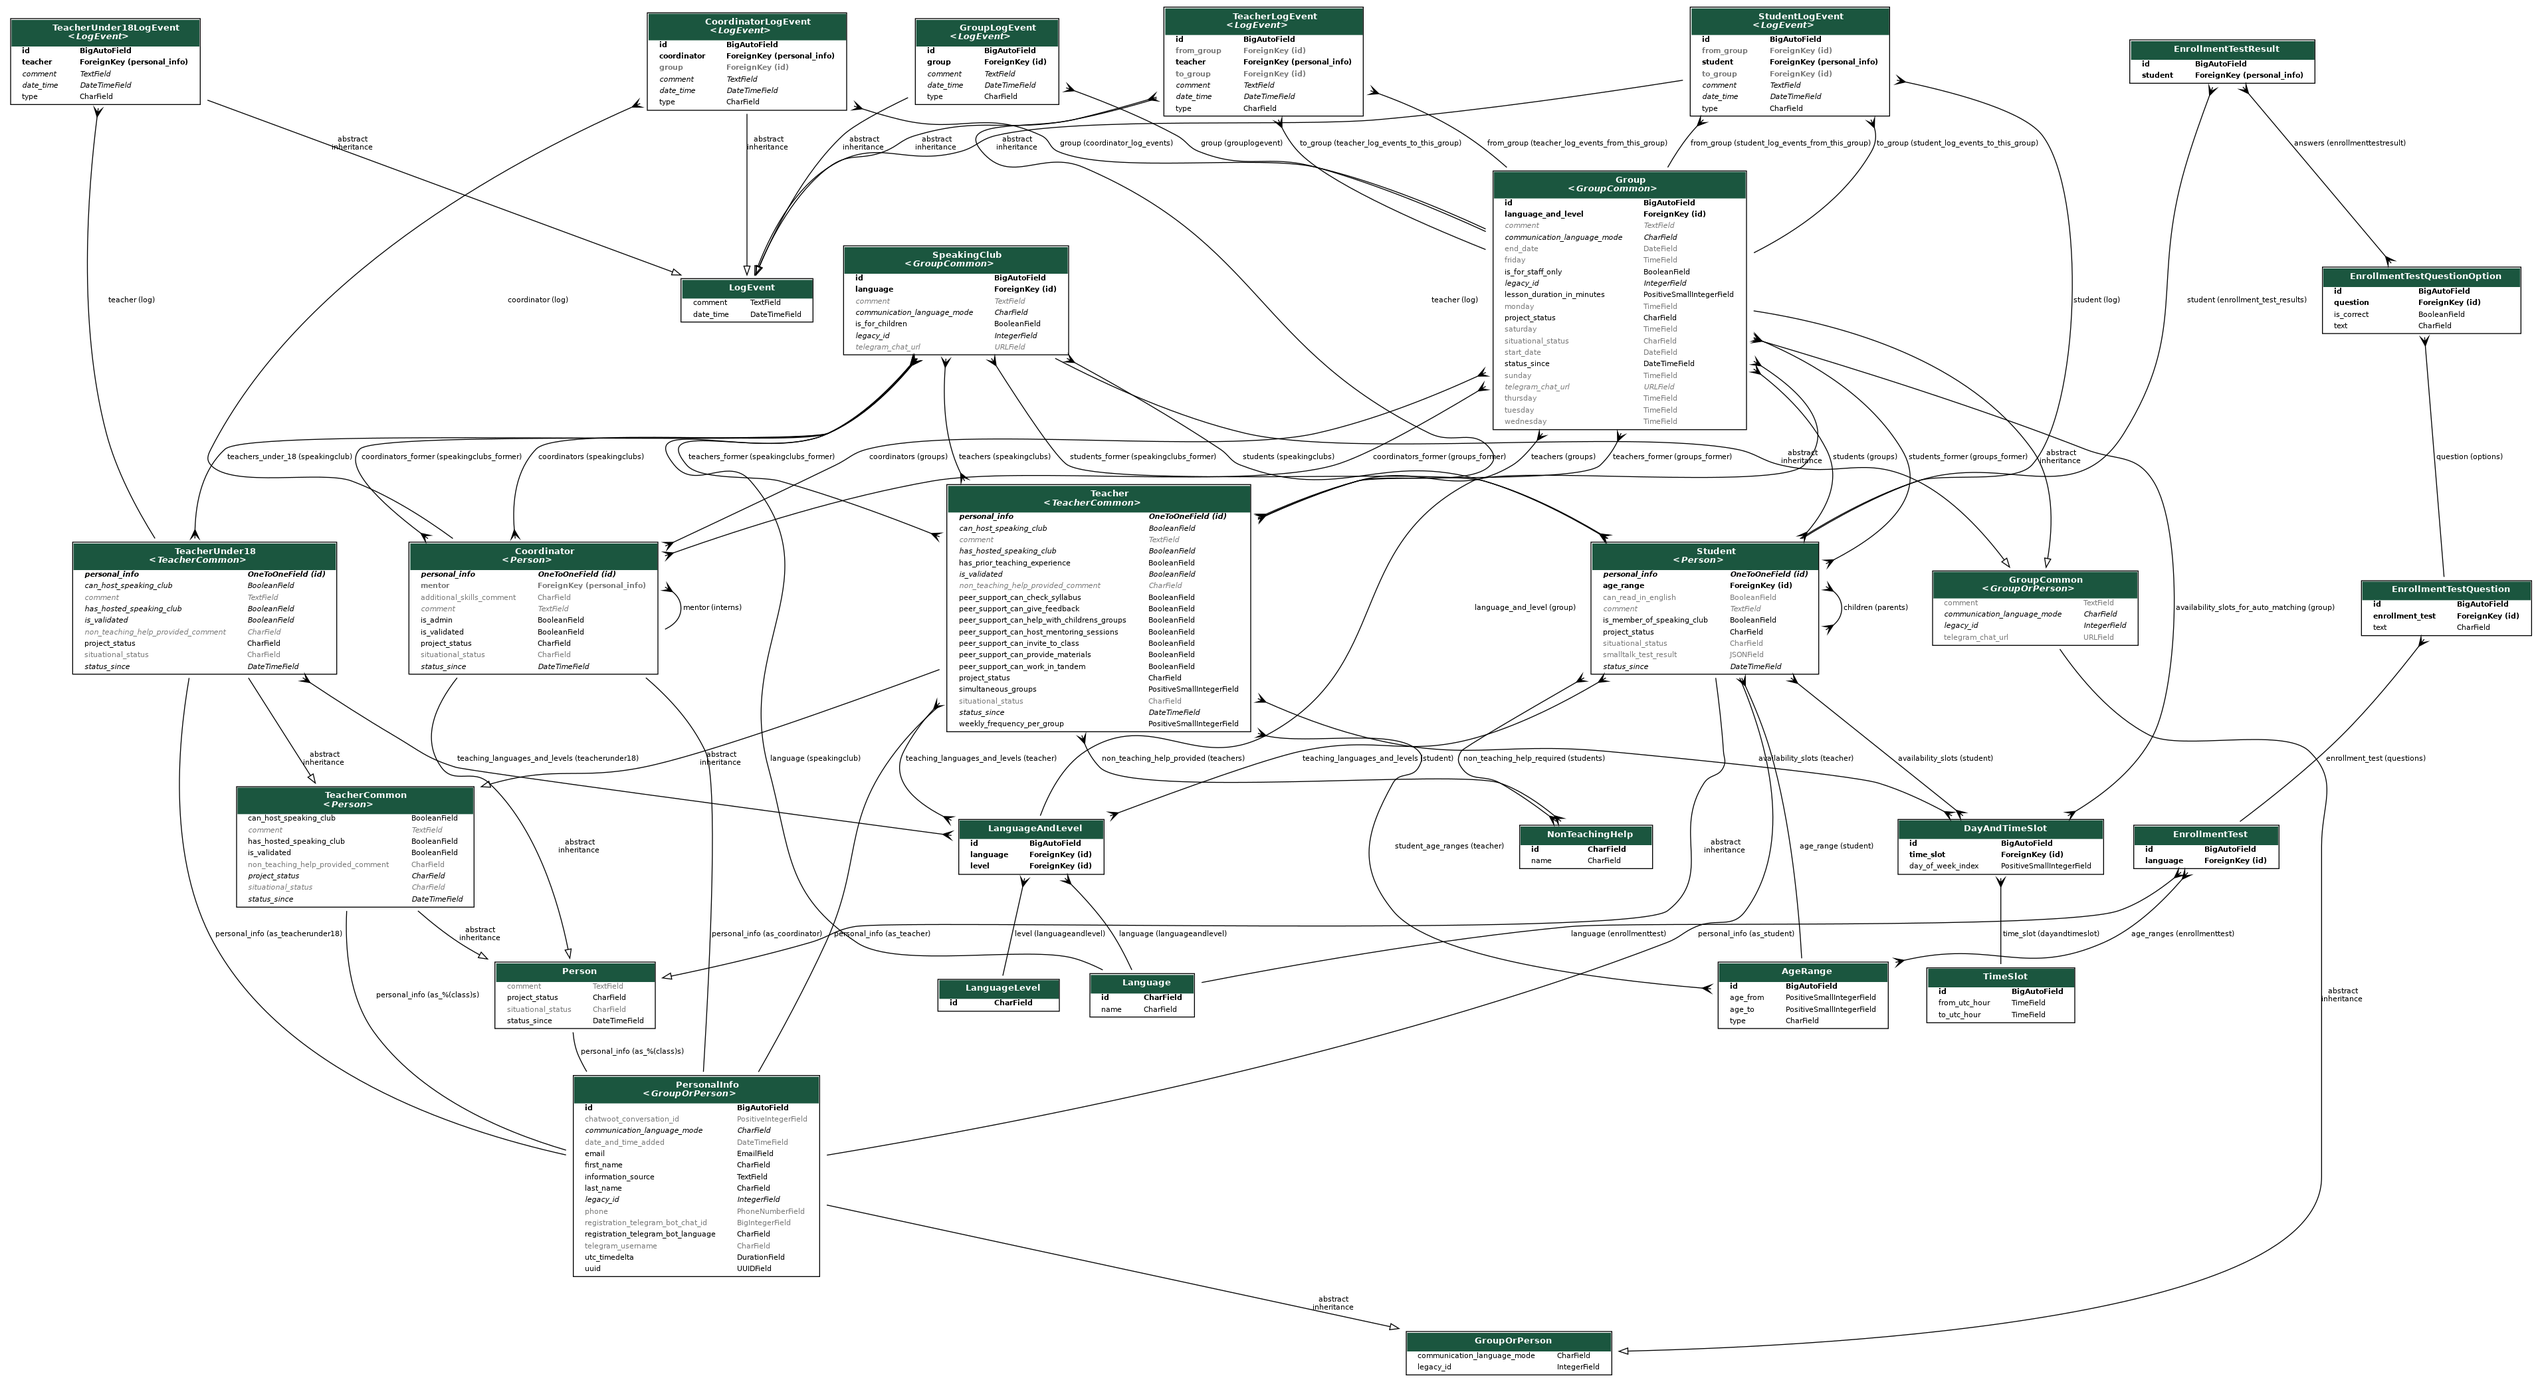
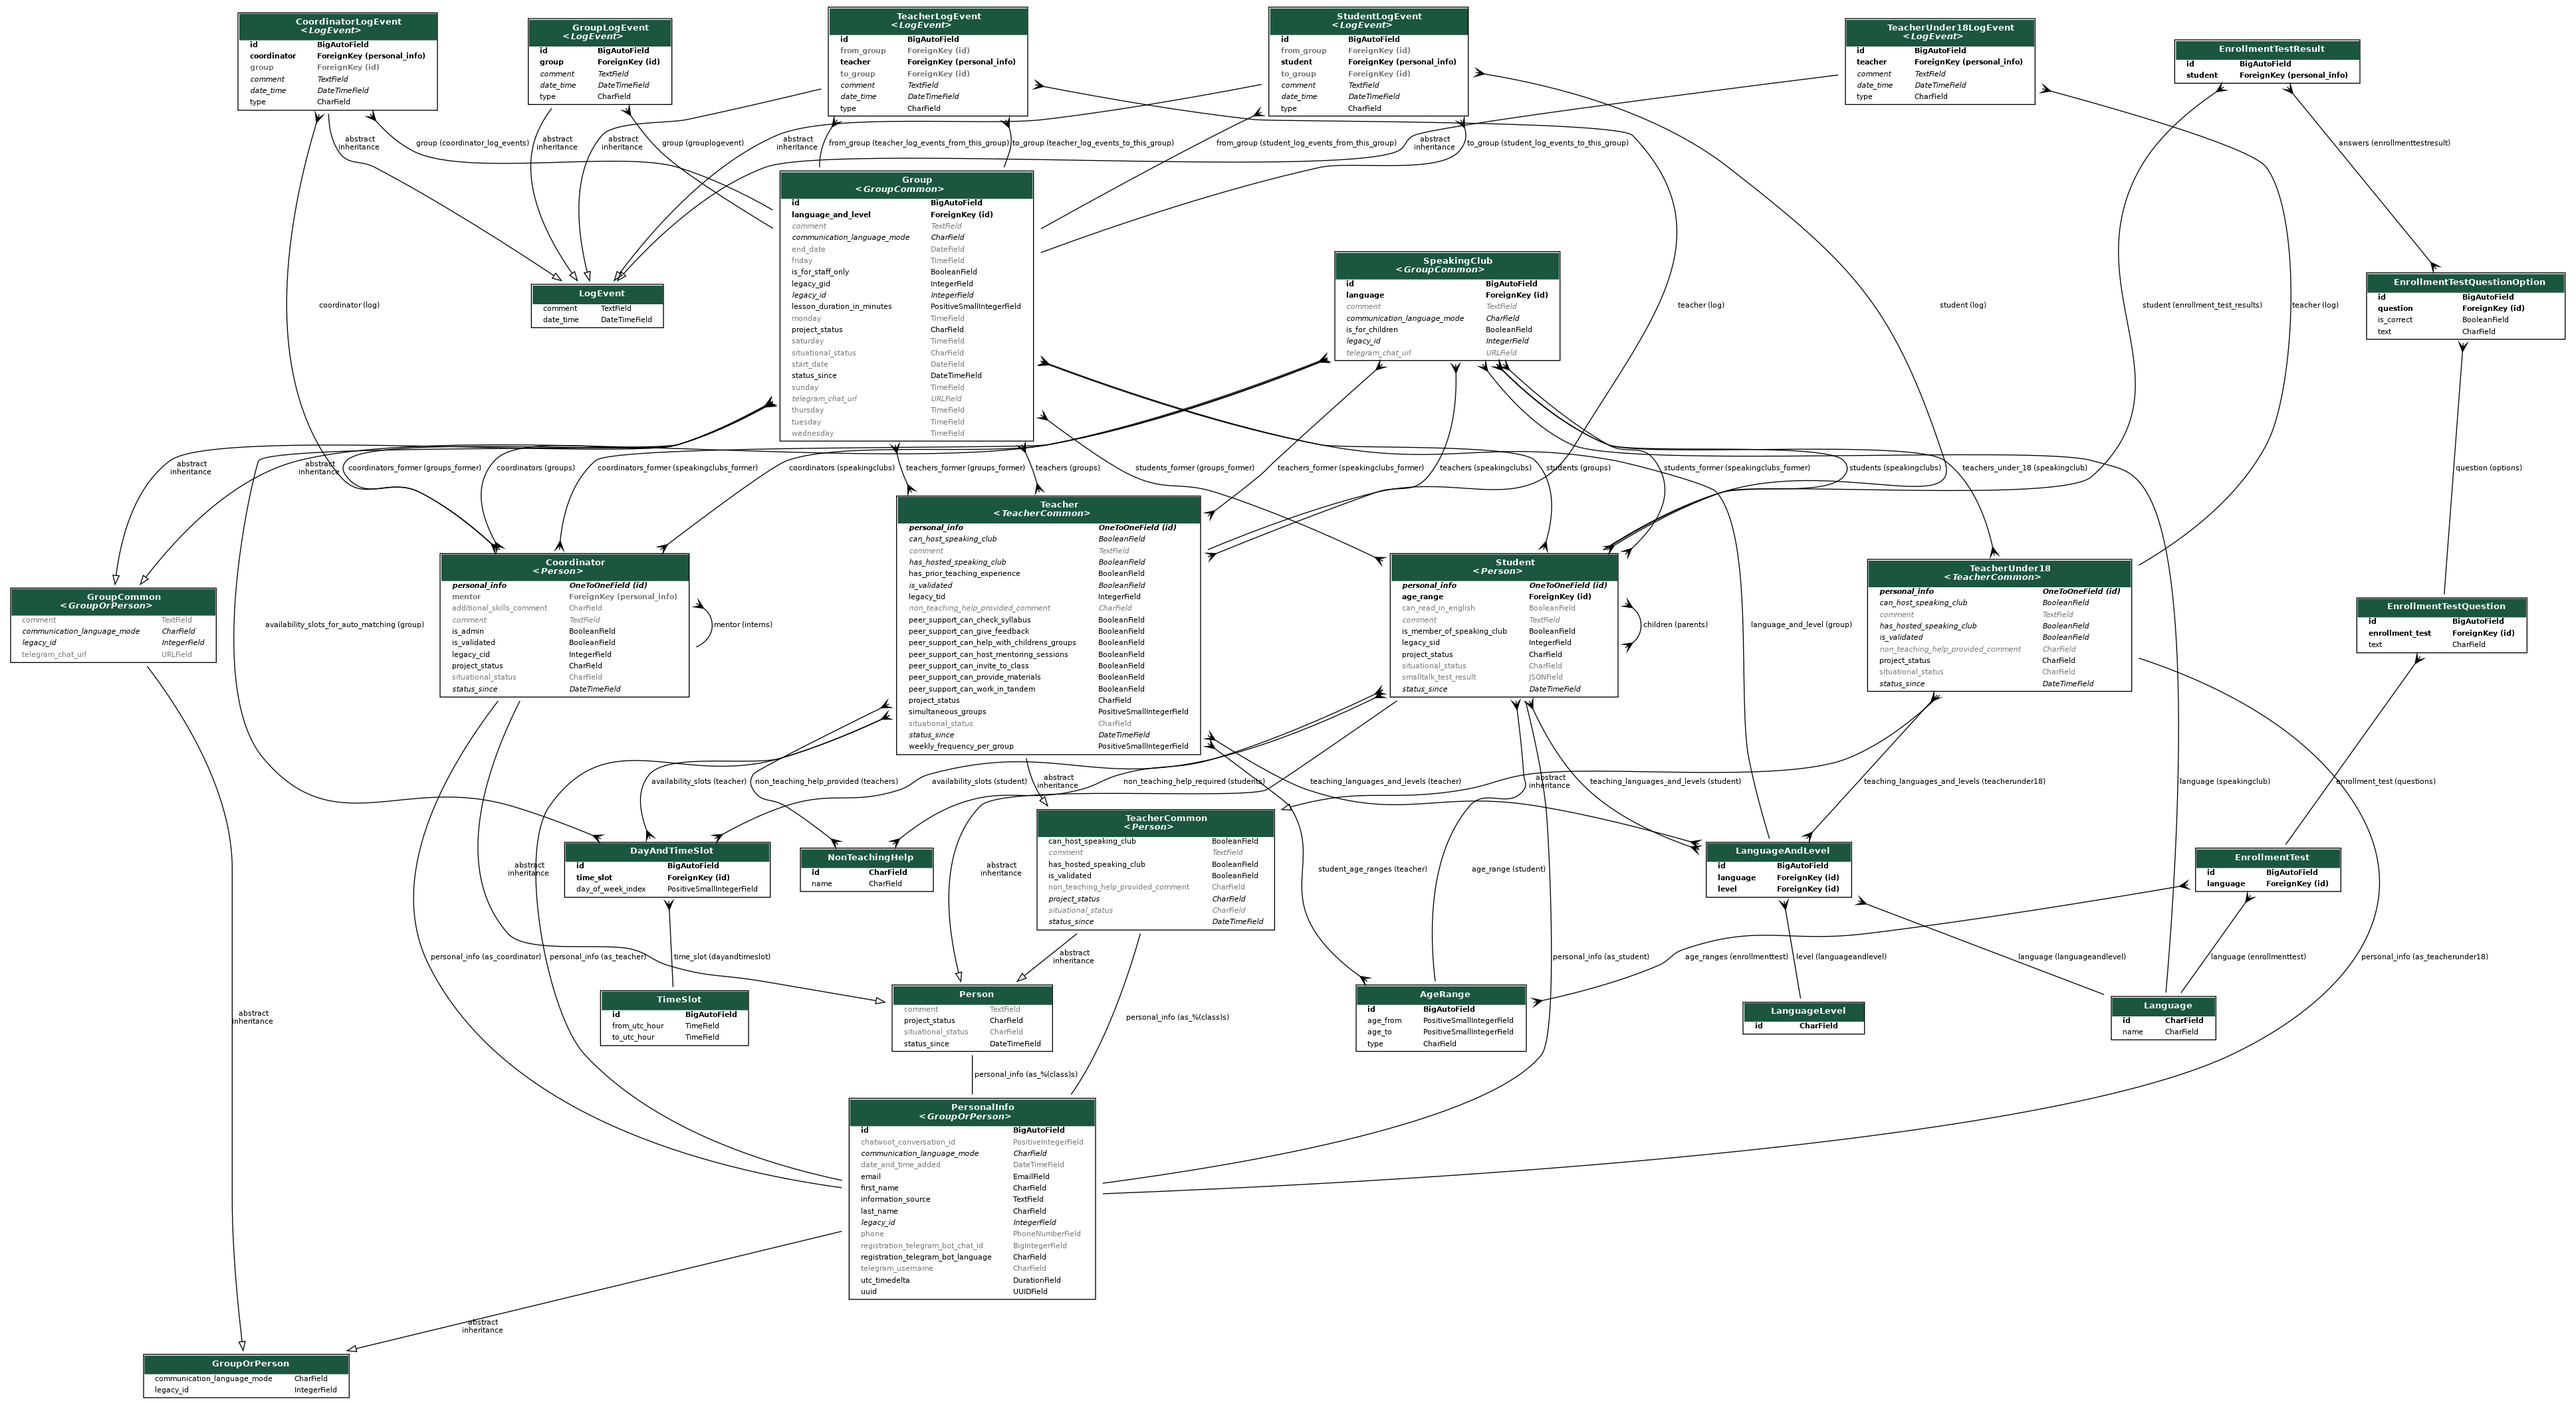
chore: address PR comments

diff --git a/api/migrations/0001_initial.py b/api/migrations/0001_initial.py
@@ -1,4 +1,4 @@
-# Generated by Django 5.0.2 on 2024-03-16 14:38
+# Generated by Django 5.0.2 on 2024-03-18 21:25
 
 import datetime
 import django.db.models.deletion
@@ -280,6 +280,7 @@ class Migration(migrations.Migration):
                 ),
                 ("comment", models.TextField(blank=True)),
                 ("telegram_chat_url", models.URLField(blank=True, null=True)),
+                ("legacy_gid", models.IntegerField(null=True)),
                 ("is_for_staff_only", models.BooleanField(default=False)),
                 ("lesson_duration_in_minutes", models.PositiveSmallIntegerField()),
                 (
@@ -630,6 +631,7 @@ class Migration(migrations.Migration):
                         help_text="date and time of last change of project-level or situational status"
                     ),
                 ),
+                ("legacy_cid", models.IntegerField(null=True)),
                 (
                     "additional_skills_comment",
                     models.CharField(
@@ -715,6 +717,7 @@ class Migration(migrations.Migration):
                         help_text="date and time of last change of project-level or situational status"
                     ),
                 ),
+                ("legacy_sid", models.IntegerField(null=True)),
                 ("can_read_in_english", models.BooleanField(blank=True, null=True)),
                 (
                     "is_member_of_speaking_club",
@@ -806,6 +809,7 @@ class Migration(migrations.Migration):
                         verbose_name="comment on additional non-teaching skills",
                     ),
                 ),
+                ("legacy_tid", models.IntegerField(null=True)),
                 (
                     "has_prior_teaching_experience",
                     models.BooleanField(
@@ -1412,6 +1416,10 @@ class Migration(migrations.Migration):
             model_name="coordinator",
             index=models.Index(fields=["situational_status"], name="coordinator_si_status_idx"),
         ),
+        migrations.AddConstraint(
+            model_name="coordinator",
+            constraint=models.UniqueConstraint(fields=("legacy_cid",), name="legacy_cid"),
+        ),
         migrations.AddIndex(
             model_name="studentlogevent",
             index=models.Index(fields=["student_id"], name="student_id_idx"),
@@ -1427,6 +1435,10 @@ class Migration(migrations.Migration):
         migrations.AddIndex(
             model_name="student",
             index=models.Index(fields=["situational_status"], name="student_si_status_idx"),
+        ),
+        migrations.AddConstraint(
+            model_name="student",
+            constraint=models.UniqueConstraint(fields=("legacy_sid",), name="legacy_sid"),
         ),
         migrations.AddIndex(
             model_name="teacherlogevent",
@@ -1444,6 +1456,10 @@ class Migration(migrations.Migration):
             model_name="teacher",
             index=models.Index(fields=["situational_status"], name="teacher_si_status_idx"),
         ),
+        migrations.AddConstraint(
+            model_name="teacher",
+            constraint=models.UniqueConstraint(fields=("legacy_tid",), name="legacy_tid"),
+        ),
         migrations.AddIndex(
             model_name="group",
             index=models.Index(fields=["language_and_level"], name="group_language_level_idx"),
@@ -1459,6 +1475,10 @@ class Migration(migrations.Migration):
         migrations.AddIndex(
             model_name="group",
             index=models.Index(fields=["start_date"], name="group_start_date_idx"),
+        ),
+        migrations.AddConstraint(
+            model_name="group",
+            constraint=models.UniqueConstraint(fields=("legacy_gid",), name="legacy_gid"),
         ),
         migrations.AddConstraint(
             model_name="group",

diff --git a/django_webapps/scripts/db_population/populate_groups.py b/django_webapps/scripts/db_population/populate_groups.py
@@ -125,8 +125,14 @@ class GroupsPopulator(BasePopulatorFromCsv):
             fake_language_and_level = self._create_language_and_levels(levels=["A1"]).first()
             if fake_language_and_level is None:
                 return
+
+            if Group.objects.filter(legacy_gid=entity_data.gid).count():
+                logger.warning(
+                    f"Coordinator with {self.id_name} {entity_data.gid} was already migrated"
+                )
+                return
             group = Group.objects.create(
-                legacy_id=entity_data.gid,
+                legacy_gid=entity_data.gid,
                 project_status=entity_data.project_status,
                 status_since=entity_data.status_since,
                 lesson_duration_in_minutes=entity_data.duration,
@@ -145,15 +151,9 @@ class GroupsPopulator(BasePopulatorFromCsv):
             ]:
                 if day and time:
                     group = self._add_day(group, day, time)
-            group.students.set(
-                Student.objects.filter(personal_info__legacy_id__in=entity_data.sids)
-            )
-            group.teachers.set(
-                Teacher.objects.filter(personal_info__legacy_id__in=entity_data.tids)
-            )
-            group.coordinators.set(
-                Coordinator.objects.filter(personal_info__legacy_id__in=entity_data.cids)
-            )
+            group.students.set(Student.objects.filter(legacy_sid__in=entity_data.sids))
+            group.teachers.set(Teacher.objects.filter(legacy_tid__in=entity_data.tids))
+            group.coordinators.set(Coordinator.objects.filter(legacy_cid__in=entity_data.cids))
             self._add_language_and_level(
                 group, entity_data.language_level, entity_data.teacher_language
             )
@@ -224,6 +224,7 @@ if __name__ == "__main__":
     parser = get_parser()
     args = parser.parse_args()
     groups = load_csv_data(args.input_csv)
+    Group.objects.all().delete()
     populator = GroupsPopulator(
         groups[1:],
         COLUMN_TO_ID,

diff --git a/api/models/coordinator.py b/api/models/coordinator.py
@@ -37,6 +37,7 @@ class CoordinatorQuerySet(models.QuerySet["Coordinator"]):
 class Coordinator(Person):
     """Model for a coordinator."""
 
+    legacy_cid = models.IntegerField(null=True, help_text="Coordinator id from the old database")
     additional_skills_comment = models.CharField(
         max_length=DEFAULT_CHAR_FIELD_MAX_LEN,  # prefer this to TextField for a better search
         blank=True,
@@ -75,6 +76,9 @@ class Coordinator(Person):
     objects = CoordinatorQuerySet.as_manager()
 
     class Meta:
+        constraints = [
+            models.UniqueConstraint(fields=["legacy_cid"], name="legacy_cid"),
+        ]
         indexes = [
             models.Index(fields=("project_status",), name="coordinator_pr_status_idx"),
             models.Index(fields=("situational_status",), name="coordinator_si_status_idx"),

diff --git a/django_webapps/scripts/db_population/populate_teachers.py b/django_webapps/scripts/db_population/populate_teachers.py
@@ -164,7 +164,15 @@ class TeacherPopulator(BasePopulatorFromCsv):
             personal_info = self._create_personal_info(entity_data)
             if personal_info is None:
                 raise ValueError("Unable to create mandatory data")
+
+            if Teacher.objects.filter(legacy_tid=entity_data.id).count():
+                logger.warning(
+                    f"Teacher with {self.id_name} {entity_data.id} was already migrated"
+                )
+                return
+
             teacher = Teacher.objects.create(
+                legacy_tid=entity_data.id,
                 project_status=entity_data.project_status,
                 has_prior_teaching_experience=entity_data.has_prior_teaching_experience,
                 peer_support_can_give_feedback=entity_data.peer_support_can_give_feedback,

diff --git a/api/models/teacher.py b/api/models/teacher.py
@@ -29,6 +29,7 @@ class TeacherQuerySet(models.QuerySet["Teacher"]):
 class Teacher(TeacherCommon):
     """Model for an adult teacher that can teach groups."""
 
+    legacy_tid = models.IntegerField(null=True, help_text="Teacher id from the old database")
     availability_slots = models.ManyToManyField(DayAndTimeSlot)
 
     has_prior_teaching_experience = models.BooleanField(
@@ -106,6 +107,9 @@ class Teacher(TeacherCommon):
     objects = TeacherQuerySet.as_manager()
 
     class Meta:
+        constraints = [
+            models.UniqueConstraint(fields=["legacy_tid"], name="legacy_tid"),
+        ]
         indexes = [
             models.Index(fields=("project_status",), name="teacher_pr_status_idx"),
             models.Index(fields=("situational_status",), name="teacher_si_status_idx"),

diff --git a/api/models/group.py b/api/models/group.py
@@ -63,6 +63,7 @@ class GroupCommon(GroupOrPerson):
 class Group(GroupCommon):
     """Model for a regular language group."""
 
+    legacy_gid = models.IntegerField(null=True, help_text="Group id from the old database")
     availability_slots_for_auto_matching = models.ManyToManyField(DayAndTimeSlot)
     is_for_staff_only = models.BooleanField(default=False)
     language_and_level = models.ForeignKey(LanguageAndLevel, on_delete=models.PROTECT)
@@ -95,6 +96,7 @@ class Group(GroupCommon):
 
     class Meta:
         constraints = [
+            models.UniqueConstraint(fields=["legacy_gid"], name="legacy_gid"),
             models.UniqueConstraint(fields=["telegram_chat_url"], name="telegram_chat_url"),
             models.CheckConstraint(
                 check=Q(monday__isnull=False)

diff --git a/django_webapps/scripts/db_population/populate_students.py b/django_webapps/scripts/db_population/populate_students.py
@@ -137,7 +137,15 @@ class StudentPopulator(BasePopulatorFromCsv):
             age_range = self._create_age_range(entity_data.age_range)
             if personal_info is None or age_range is None:
                 raise ValueError("Unable to create mandatory data")
+
+            if Student.objects.filter(legacy_sid=entity_data.id).count():
+                logger.warning(
+                    f"Student with {self.id_name} {entity_data.id} was already migrated"
+                )
+                return
+
             student = Student.objects.create(
+                legacy_sid=entity_data.id,
                 age_range=age_range,
                 project_status=entity_data.project_status,
                 personal_info=personal_info,

diff --git a/api/models/student.py b/api/models/student.py
@@ -26,6 +26,7 @@ class StudentQuerySet(models.QuerySet["Student"]):
 class Student(Person):
     """Model for a student."""
 
+    legacy_sid = models.IntegerField(null=True, help_text="Student id from the old database")
     age_range = models.ForeignKey(
         AgeRange,
         on_delete=models.PROTECT,
@@ -78,6 +79,9 @@ class Student(Person):
     objects = StudentQuerySet.as_manager()
 
     class Meta:
+        constraints = [
+            models.UniqueConstraint(fields=["legacy_sid"], name="legacy_sid"),
+        ]
         indexes = [
             models.Index(fields=("project_status",), name="student_pr_status_idx"),
             models.Index(fields=("situational_status",), name="student_si_status_idx"),

diff --git a/django_webapps/scripts/db_population/populate_coordinators.py b/django_webapps/scripts/db_population/populate_coordinators.py
@@ -81,7 +81,14 @@ class CoordinatorPopulator(BasePopulatorFromCsv):
             personal_info = self._create_personal_info(entity_data)
             if personal_info is None:
                 return
+            if Coordinator.objects.filter(legacy_cid=entity_data.id).count():
+                logger.warning(
+                    f"Coordinator with {self.id_name} {entity_data.id} was already migrated"
+                )
+                return
+
             coordinator = Coordinator.objects.create(
+                legacy_cid=entity_data.id,
                 project_status=entity_data.project_status,
                 personal_info=personal_info,
                 is_admin=entity_data.is_admin,

diff --git a/django_webapps/scripts/db_population/base_populator.py b/django_webapps/scripts/db_population/base_populator.py
@@ -133,7 +133,6 @@ class BasePopulatorFromCsv(ABC):
             return None
         try:
             return PersonalInfo.objects.create(
-                legacy_id=int(entity_data.id),
                 first_name=entity_data.first_name,
                 last_name=entity_data.last_name,
                 telegram_username=entity_data.telegram_username,
